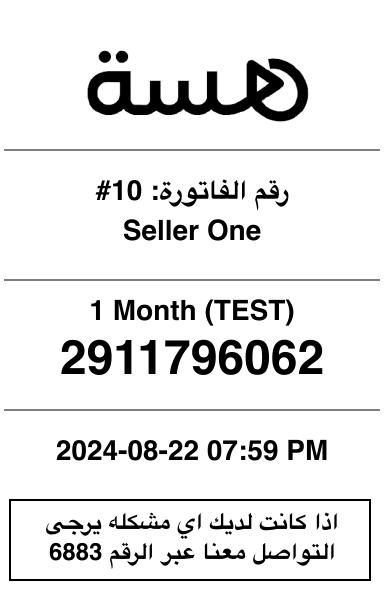
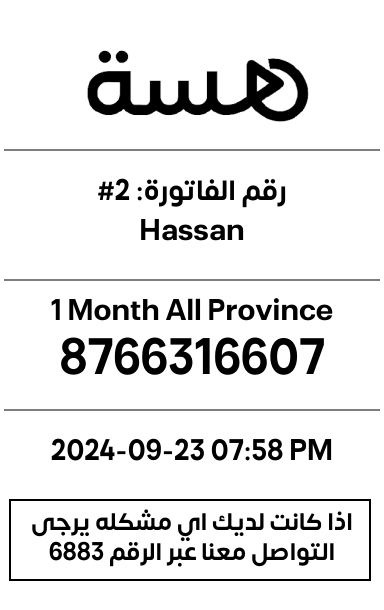
update

diff --git a/routers/POS.js b/routers/POS.js
@@ -400,24 +400,27 @@ router.get("/invoice/:id", async (req, res) => {
 
     const lines = msg.match(/.{1,28}/g); // Adjust 40 to your preferred line length
 
+
     // Create Arabic text as an SVG with matching width
     const textSvg = Buffer.from(`
-       <svg width="${width}" height="${height}">
+       <svg width="${width}" height="${height}" xmlns="http://www.w3.org/2000/svg">
         <style>
-        
-           *{
-         font-family: 'Times';
-            font-size: 28px;
-             font-weight: bold;
+            @import url('https://fonts.cdnfonts.com/css/somar-sans');
+
+            *{
+              font-family: 'Somar Sans', sans-serif;
+              font-size: 28px;
+              font-weight: bold;
             }
 
             .code{
-             font-size: 48px;
-             font-weight: bold;
+              font-size: 48px;
+              font-weight: bold;
             }
             .msg{
-             font-size: 24px;
-             font-weight: bold;
+          font-family: 'Somar Sans', sans-serif;
+              font-size: 24px;
+              font-weight: bold;
             }
         </style>
         <line x1="4" y1="150" x2="380" y2="150" stroke="black" stroke-width="1" />
@@ -488,18 +491,18 @@ router.get("/invoice/:id", async (req, res) => {
           );
         }
       });
-    // .toFile("invoice.png", (err, info) => {
-    //   if (err) {
-    //     console.error(err);
-    //     res.status(500).send({ message: "ERROR" });
-    //   } else {
-    //     res.status(200).send({ message: "yes" });
-    //   }
-    // });
   } catch (error) {
     res.status(500).json({ message: error?.message || "Error" });
   }
 });
+// .toFile("invoice.png", (err, info) => {
+//   if (err) {
+//     console.error(err);
+//     res.status(500).send({ message: "ERROR" });
+//   } else {
+//     res.status(200).send({ message: "yes" });
+//   }
+// });
 
 // app.post("/v1/purchase", upload.none(), async (req, res) => {
 //   const { hold_id } = req.body;
